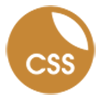
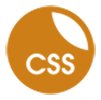
Finished styling with colors and gradients.

diff --git a/css/main.css b/css/main.css
@@ -43,12 +43,12 @@ a:hover {
 }
 
 nav ul li a:hover{
-    color: #c68736;
+    color: #ce7e16;
 }
 
 
 #contact a:hover{
-    color: #c68736;
+    color: #ce7e16;
 }
 
 
@@ -69,8 +69,8 @@ header,
 --------------------------------------*/
 /****  HEADER  ****/
 .hero-img{
-    background-image: linear-gradient(rgba(155, 153, 153, 0.5), 
-    rgba(0, 0, 0, 0.5)),
+    background-image: linear-gradient(rgba(7, 7, 7, 0.4), 
+    rgba(12, 12, 12, 0.3)),
         url(../img/woman-smile.jpg);
     background-size: cover;
     background-position: right;
@@ -86,8 +86,8 @@ h2 a{
     font-size: 1.5em;
     margin: 0 30px 10px 31px;
     text-decoration: none;
-    color: #c68736;
-    text-shadow: .5px 1px #2b2b2b;
+    color: #ce7e16;
+    text-shadow: .8px .3px #e1e1e1;
 }
 
 /***** NAV *****/
@@ -115,7 +115,7 @@ nav ul li a {
     font-weight: normal;
     font-size: 1em;
     color: #ebebeb;
-    text-shadow: .5px 1px #2b2b2b;
+    text-shadow: 1px .5px #2b2b2b;
    
 }
 
@@ -131,8 +131,8 @@ h1 {
 }
 
 h1 span {
-    color: #c68736;
-    text-shadow: .5px .5px #2b2b2b;
+    color: #ce7e16;
+    text-shadow: .8px .3px #e1e1e1;
 }
 
 
@@ -159,14 +159,17 @@ h1 span {
     margin-bottom: 50px;
 }
 
-.half-width span{
+#about .brilliant{
     font-weight: bold;
-    color: #648b75;
+    color: #2b2b2b;
+    width: 100%;
+    text-align: center;
+    margin: -15px 0 10px;
 }
 /*****  WORK  *****/
 
 #work  {
-    background-color: #b8d1bd;
+    background-color: #afcab2;
     text-align: center;
 } 
 
@@ -184,7 +187,7 @@ h1 span {
 
 #work p {
     font-family: 'lora', serif;
-    font-size: 1.12em;
+    font-size: 1.2em;
     line-height: 30px;
     padding: 0 50px 60px 50px;
 }
@@ -209,7 +212,7 @@ h1 span {
 }
 
 #contact-img {
-    border: 7px solid #c68736;
+    border: 7px solid #ce7e16;
     max-width: 300px;
 }
 
@@ -398,7 +401,7 @@ h5{
     }
 
     #work p{
-        font-size: 1.3em;
+        font-size: 1.2em;
     }
 
     /*** Footer/ Contact ***/

diff --git a/index.html b/index.html
@@ -56,11 +56,13 @@
                      <p>Then while working on a crew of a motion capture film, I was able to collaborate with amazing artists and 
                         engineers on projects via Unreal Engine, Vlad 3D models, and Giant Software.  I was in awe and 
                         completely hooked, and once again, I felt compelled to learn more.  I find working in tech so liberating and 
-                        empowering.  I'd love to share my skills to help you create something meaningful.  
-                        <span>Let's be brilliant together!</span>
-                     </p>
+                        empowering.  I'd love to share my skills to help you create something meaningful.     
+                     </p>      
                   </div>
+
+                  <p class="brilliant">Let's be brilliant together!</p>
                </div>
+               
             </section>
 
             <section id="work">

diff --git a/portfolio/index.html b/portfolio/index.html
@@ -21,7 +21,7 @@
             <div class="hero-img">
                <div class="full-width">
                   <div class="half-width">
-                     <h2><a href= ../index.html target="_blank">Krista Lennox</a></h2>
+                     <h2><a href= ../index.html target="_blank">Daryn Harada</a></h2>
                   </div>
                   <div class="half-width">
                      <nav>
